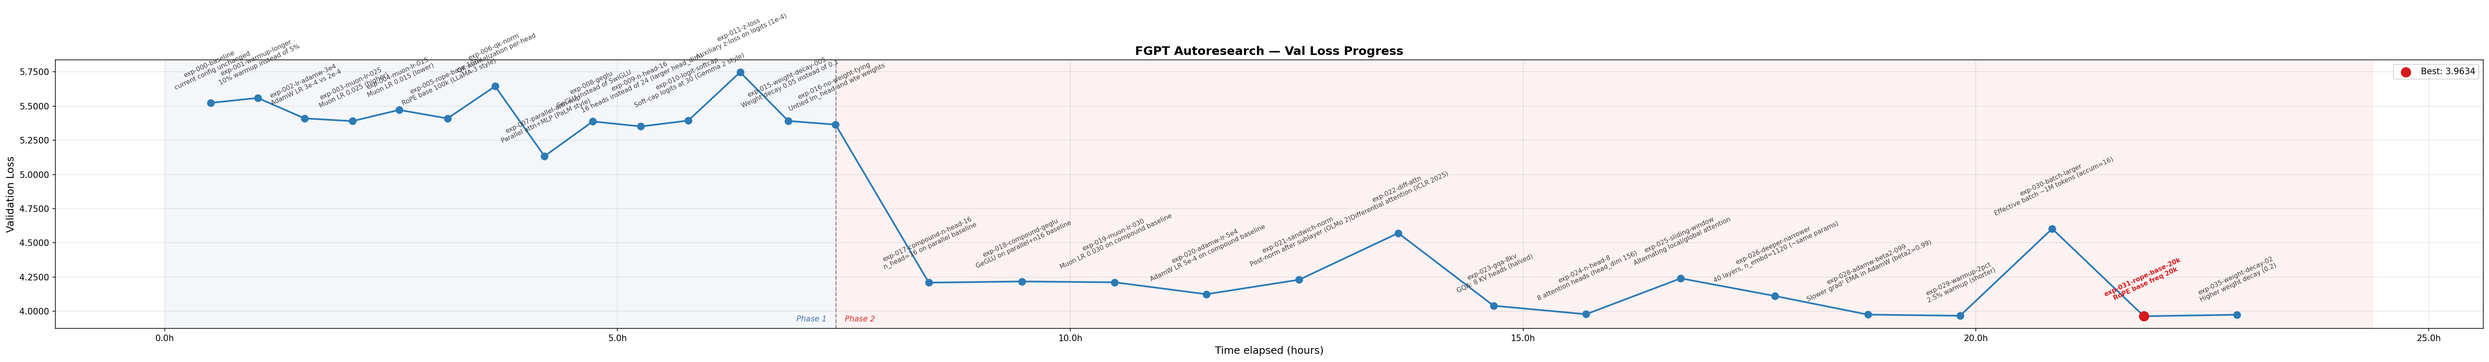
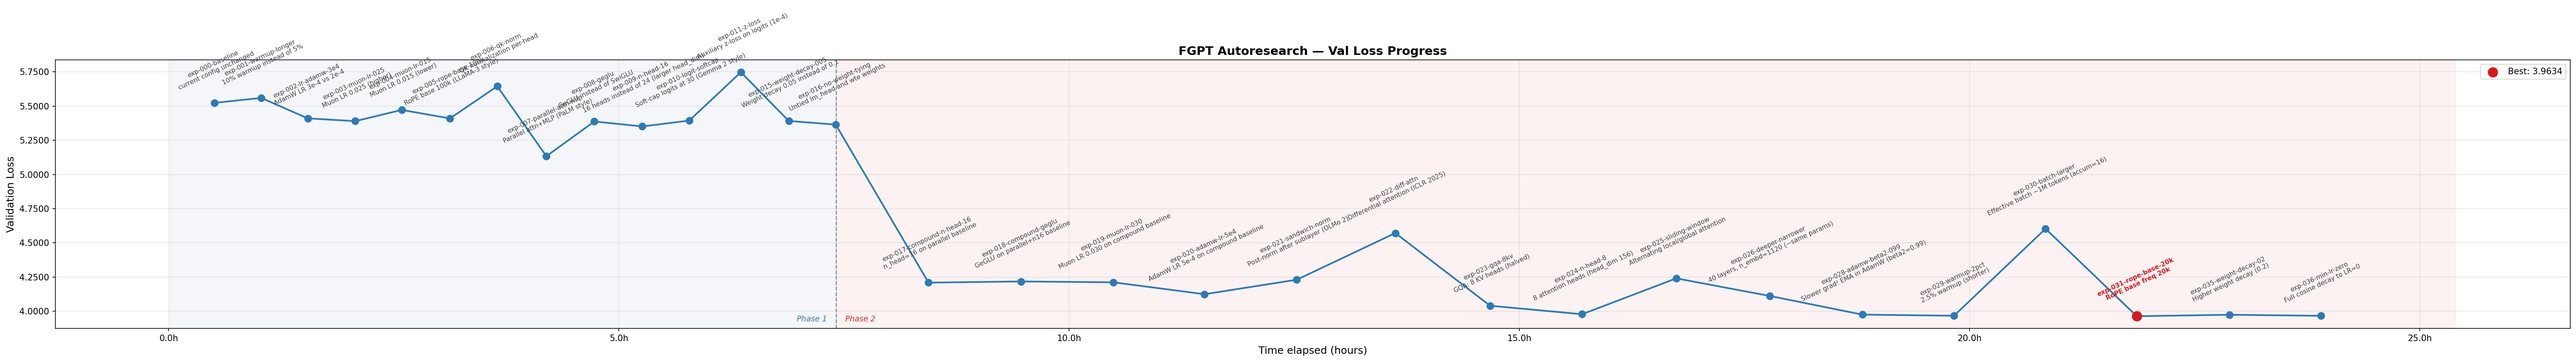
results: exp-037-phase3-baseline | val_loss=3.4504

diff --git a/AUTORESEARCH.md b/AUTORESEARCH.md
@@ -203,36 +203,37 @@ The first two experiments (017, 018) re-validate the other phase 1 architectural
 
 | Rank | Tag | Val Loss | Description |
 |------|-----|----------|-------------|
-| 1 | `exp-031-rope-base-20k` | 3.9634 | RoPE base freq 20k |
-| 2 | `exp-036-min-lr-zero` | 3.9664 | Full cosine decay to LR=0 |
-| 3 | `exp-029-warmup-2pct` | 3.9667 | 2.5% warmup (shorter) |
-| 4 | `exp-035-weight-decay-02` | 3.9741 | Higher weight decay (0.2) |
-| 5 | `exp-028-adamw-beta2-099` | 3.9751 | Slower grad² EMA in AdamW (beta2=0.99) |
-| 6 | `exp-024-n-head-8` | 3.9780 | 8 attention heads (head_dim 156) |
-| 7 | `exp-023-gqa-8kv` | 4.0400 | GQA: 8 KV heads (halved) |
-| 8 | `exp-026-deeper-narrower` | 4.1115 | 40 layers, n_embd=1120 (~same params) |
-| 9 | `exp-020-adamw-lr-5e4` | 4.1243 | AdamW LR 5e-4 on compound baseline |
-| 10 | `exp-017-compound-n-head-16` | 4.2090 | n_head=16 on parallel baseline |
-| 11 | `exp-019-muon-lr-030` | 4.2114 | Muon LR 0.030 on compound baseline |
-| 12 | `exp-018-compound-geglu` | 4.2176 | GeGLU on parallel+n16 baseline |
-| 13 | `exp-021-sandwich-norm` | 4.2302 | Post-norm after sublayer (OLMo 2) |
-| 14 | `exp-025-sliding-window` | 4.2402 | Alternating local/global attention |
-| 15 | `exp-022-diff-attn` | 4.5714 | Differential attention (ICLR 2025) |
-| 16 | `exp-030-batch-larger` | 4.6031 | Effective batch ~1M tokens (accum=16) |
-| 17 | `exp-007-parallel-attn-mlp` | 5.1336 | Parallel attn+MLP (PaLM style) |
-| 18 | `exp-009-n-head-16` | 5.3510 | 16 heads instead of 24 (larger head_dim) |
-| 19 | `exp-016-no-weight-tying` | 5.3643 | Untied lm_head and wte weights |
-| 20 | `exp-008-geglu` | 5.3875 | GeGLU instead of SwiGLU |
-| 21 | `exp-003-muon-lr-025` | 5.3898 | Muon LR 0.025 (higher) |
-| 22 | `exp-015-weight-decay-005` | 5.3914 | Weight decay 0.05 instead of 0.1 |
-| 23 | `exp-010-logit-softcap` | 5.3939 | Soft-cap logits at 30 (Gemma 2 style) |
-| 24 | `exp-005-rope-base-100k` | 5.4097 | RoPE base 100k (LLaMA-3 style) |
-| 25 | `exp-002-lr-adamw-3e4` | 5.4101 | AdamW LR 3e-4 vs 2e-4 |
-| 26 | `exp-004-muon-lr-015` | 5.4718 | Muon LR 0.015 (lower) |
-| 27 | `exp-000-baseline` | 5.5235 | current config unchanged |
-| 28 | `exp-001-warmup-longer` | 5.5596 | 10% warmup instead of 5% |
-| 29 | `exp-006-qk-norm` | 5.6449 | QK normalization per-head |
-| 30 | `exp-011-z-loss` | 5.7478 | Auxiliary z-loss on logits (1e-4) |
+| 1 | `exp-037-phase3-baseline` | 3.4504 | Phase 3 baseline (2.5h, no changes) |
+| 2 | `exp-031-rope-base-20k` | 3.9634 | RoPE base freq 20k |
+| 3 | `exp-036-min-lr-zero` | 3.9664 | Full cosine decay to LR=0 |
+| 4 | `exp-029-warmup-2pct` | 3.9667 | 2.5% warmup (shorter) |
+| 5 | `exp-035-weight-decay-02` | 3.9741 | Higher weight decay (0.2) |
+| 6 | `exp-028-adamw-beta2-099` | 3.9751 | Slower grad² EMA in AdamW (beta2=0.99) |
+| 7 | `exp-024-n-head-8` | 3.9780 | 8 attention heads (head_dim 156) |
+| 8 | `exp-023-gqa-8kv` | 4.0400 | GQA: 8 KV heads (halved) |
+| 9 | `exp-026-deeper-narrower` | 4.1115 | 40 layers, n_embd=1120 (~same params) |
+| 10 | `exp-020-adamw-lr-5e4` | 4.1243 | AdamW LR 5e-4 on compound baseline |
+| 11 | `exp-017-compound-n-head-16` | 4.2090 | n_head=16 on parallel baseline |
+| 12 | `exp-019-muon-lr-030` | 4.2114 | Muon LR 0.030 on compound baseline |
+| 13 | `exp-018-compound-geglu` | 4.2176 | GeGLU on parallel+n16 baseline |
+| 14 | `exp-021-sandwich-norm` | 4.2302 | Post-norm after sublayer (OLMo 2) |
+| 15 | `exp-025-sliding-window` | 4.2402 | Alternating local/global attention |
+| 16 | `exp-022-diff-attn` | 4.5714 | Differential attention (ICLR 2025) |
+| 17 | `exp-030-batch-larger` | 4.6031 | Effective batch ~1M tokens (accum=16) |
+| 18 | `exp-007-parallel-attn-mlp` | 5.1336 | Parallel attn+MLP (PaLM style) |
+| 19 | `exp-009-n-head-16` | 5.3510 | 16 heads instead of 24 (larger head_dim) |
+| 20 | `exp-016-no-weight-tying` | 5.3643 | Untied lm_head and wte weights |
+| 21 | `exp-008-geglu` | 5.3875 | GeGLU instead of SwiGLU |
+| 22 | `exp-003-muon-lr-025` | 5.3898 | Muon LR 0.025 (higher) |
+| 23 | `exp-015-weight-decay-005` | 5.3914 | Weight decay 0.05 instead of 0.1 |
+| 24 | `exp-010-logit-softcap` | 5.3939 | Soft-cap logits at 30 (Gemma 2 style) |
+| 25 | `exp-005-rope-base-100k` | 5.4097 | RoPE base 100k (LLaMA-3 style) |
+| 26 | `exp-002-lr-adamw-3e4` | 5.4101 | AdamW LR 3e-4 vs 2e-4 |
+| 27 | `exp-004-muon-lr-015` | 5.4718 | Muon LR 0.015 (lower) |
+| 28 | `exp-000-baseline` | 5.5235 | current config unchanged |
+| 29 | `exp-001-warmup-longer` | 5.5596 | 10% warmup instead of 5% |
+| 30 | `exp-006-qk-norm` | 5.6449 | QK normalization per-head |
+| 31 | `exp-011-z-loss` | 5.7478 | Auxiliary z-loss on logits (1e-4) |
 
 *Auto-updated by `run_experiment.py` after each run — see `experiments/results.jsonl` for full data.*
 

diff --git a/experiments/notes/exp-037-phase3-baseline.md b/experiments/notes/exp-037-phase3-baseline.md
@@ -1,0 +1,27 @@
+# exp-037-phase3-baseline
+
+**Description:** Phase 3 baseline (2.5h, no changes)  
+**Val loss:** 3.4504  
+**Duration:** 150.3 min  
+**Seed:** 42  
+**Date:** 2026-04-13 14:05  
+
+## Hyperparameters
+
+| Parameter | Value |
+|-----------|-------|
+| AdamW LR | 0.0005 |
+| Muon LR | 0.025 |
+| Warmup | 2.5% |
+| Accum steps | 8 |
+| Min LR ratio | 0.05 |
+| RoPE base | 20000 |
+| n_head | 8 |
+
+## Reasoning
+
+Establishes the phase 3 reference point. All phase 1+2 compound wins are baked into the defaults: parallel attn+MLP, n_head=8, n_kv_heads=4, adamw_lr=5e-4, beta2=0.99, warmup_frac=0.025, rope_base=20000. No additional changes. The 2.5h run gives ~1100 optimizer steps (vs ~600 in phase 2), reducing noise and lowering val loss compared to the 60-min phase 2 baseline of 3.9634. All subsequent phase 3 experiments compare against this.
+
+## Outcome
+
+**Better than baseline** (3.4504 vs 5.5235, -2.0730 better than baseline).
